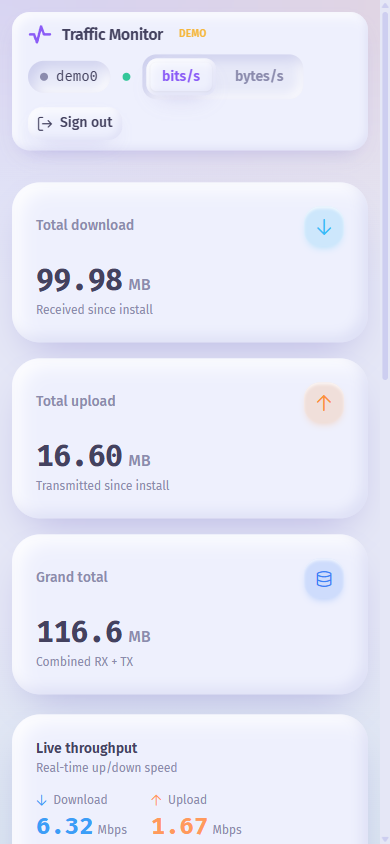
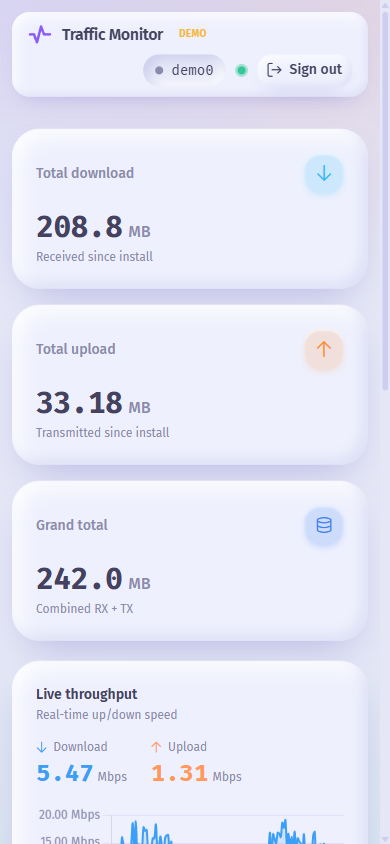
UI: bits/s only, and non-sticky header on mobile
- Remove the bits/s | bytes/s units switcher; speeds always show in bits/s
  (drops the speedUnit state from useFormat and the toggle from the top bar).
- Make the top bar non-sticky on mobile (it scrolls away) and sticky from the
  md breakpoint up. Verified in-browser: header position is static at 390px
  (scrolls away) and sticky at 1440px.

diff --git a/frontend/composables/useFormat.ts b/frontend/composables/useFormat.ts
@@ -1,11 +1,6 @@
-export type SpeedUnit = 'bits' | 'bytes'
-
-// Decimal (SI, powers of 1000) byte formatting and bits/s speed formatting, per
-// the configured convention. Numbers are rendered with the .tnum class elsewhere
-// for tabular figures.
+// Decimal (SI, powers of 1000) byte formatting and bits/s speed formatting.
+// Numbers are rendered with the .tnum class elsewhere for tabular figures.
 export function useFormat() {
-  const speedUnit = useState<SpeedUnit>('speedUnit', () => 'bits')
-
   const toNum = (v: number | string): number => (typeof v === 'string' ? Number(v) : v)
 
   function scale(n: number, units: string[]): { value: string; unit: string } {
@@ -40,9 +35,6 @@ export function useFormat() {
   }
 
   function speedParts(bps: number): { value: string; unit: string } {
-    if (speedUnit.value === 'bytes') {
-      return scale(bps / 8, ['B/s', 'KB/s', 'MB/s', 'GB/s', 'TB/s'])
-    }
     return scale(bps, ['bps', 'Kbps', 'Mbps', 'Gbps', 'Tbps'])
   }
 
@@ -69,5 +61,5 @@ export function useFormat() {
     return new Date(unix * 1000).toLocaleString()
   }
 
-  return { speedUnit, bytesParts, formatBytes, speedParts, formatSpeed, formatSince, formatDate }
+  return { bytesParts, formatBytes, speedParts, formatSpeed, formatSince, formatDate }
 }

diff --git a/frontend/components/TopBar.vue b/frontend/components/TopBar.vue
@@ -1,5 +1,5 @@
 <template>
-  <header class="sticky top-0 z-40 bg-[var(--bg)]/70 backdrop-blur">
+  <header class="top-0 z-40 bg-[var(--bg)]/70 backdrop-blur md:sticky">
     <div class="mx-auto max-w-7xl px-3 py-3 sm:px-6">
       <div class="clay-sm flex flex-wrap items-center gap-x-4 gap-y-2 px-4 py-2.5 sm:px-5">
         <!-- Brand -->
@@ -40,17 +40,6 @@
             <span class="hidden sm:inline">{{ connected ? 'Live' : 'Offline' }}</span>
           </span>
 
-          <!-- Units toggle -->
-          <SelectButton
-            v-model="speedUnit"
-            :options="unitOptions"
-            option-label="label"
-            option-value="value"
-            :allow-empty="false"
-            aria-label="Speed units"
-            size="small"
-          />
-
           <!-- Logout -->
           <Button
             icon="pi pi-sign-out"
@@ -69,13 +58,7 @@
 import type { InterfaceResp } from '~/composables/useApi'
 
 const props = defineProps<{ iface: InterfaceResp | null; connected: boolean }>()
-const { speedUnit } = useFormat()
 const { logout } = useAuth()
-
-const unitOptions = [
-  { label: 'bits/s', value: 'bits' },
-  { label: 'bytes/s', value: 'bytes' },
-]
 
 const stateDot = computed(() => {
   switch (props.iface?.operstate) {

diff --git a/frontend/components/LiveThroughput.vue b/frontend/components/LiveThroughput.vue
@@ -78,8 +78,6 @@ const chartData = computed(() => ({
 }))
 
 const chartOptions = computed(() => {
-  // Read the unit so the axis/tooltips re-render when it is toggled.
-  void useFormat().speedUnit.value
   return {
     responsive: true,
     maintainAspectRatio: false,
